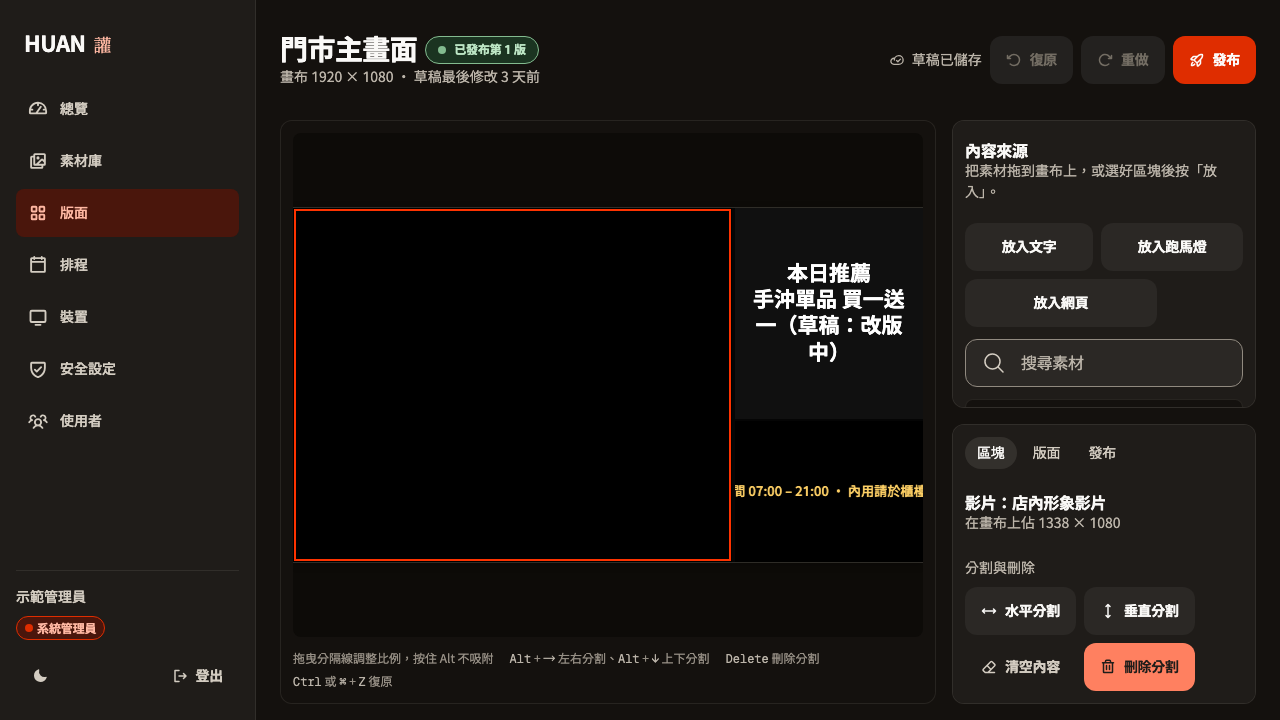
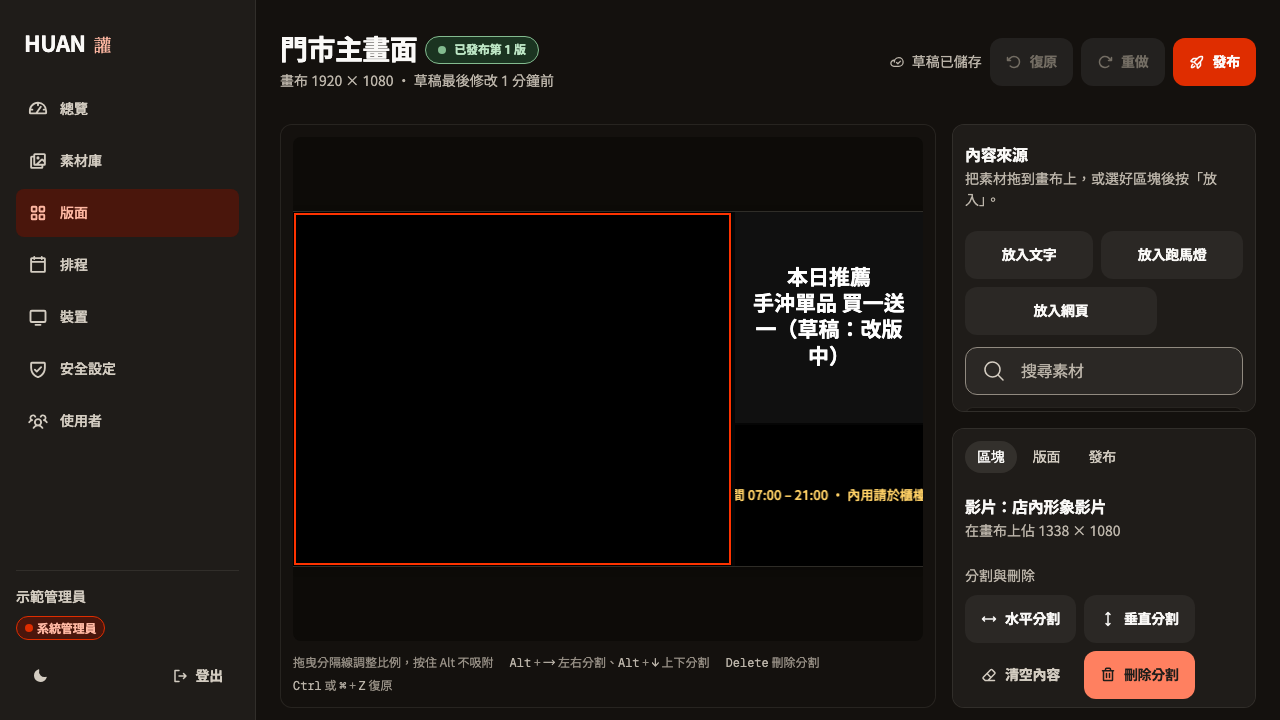
admin: 升到 @linyao.tw/ui 1.5.0
修的是兩個一直看得到的版面問題：

Dialog 原本是整個彈窗在捲動。排程表單在 720px 高的視窗上，「取消／儲存」落在
畫面下方 900px 處，捲下去按的同時標題和關閉鈕會離開畫面上緣。現在 header 與
footer 固定，只有內容區捲動——量過 30 次 Tab 加滾輪，彈窗本身不再位移。

沒有標題的卡片上下內距不對稱，上面比下面多 20px。總覽與安全設定的卡片現在是
16/16 與 24/24。

順手移除 .huan-shell__content--wide：沒有任何地方引用它。編輯器要用滿主欄是靠
layouts.css 的 :has(> .huan-editor)，那條規則跟著路由一起載入，比多一個要由
版面元件記得掛上的類別可靠。

截圖因為卡片間距改變而重拍。

Claude-Session: https://claude.ai/code/session_014Dgy1yiSzcn9RUbk3aGzy3

diff --git a/apps/admin/src/styles/app.css b/apps/admin/src/styles/app.css
@@ -276,10 +276,6 @@ body {
 	gap: var(--space-6);
 }
 
-.huan-shell__content--wide {
-	max-width: none;
-}
-
 /*
  * 1024 的側欄要瘦一點。
  *

diff --git a/AGENTS.md b/AGENTS.md
@@ -9,7 +9,7 @@ HUAN 讙是跨平台的雲端媒體播放與數位看板系統。使用者在 We
 - 產品語言：繁體中文（zh-TW）。所有 UI 文案、文件、commit 訊息說明與註解都使用繁體中文。
 - 程式碼識別字、型別名稱、函式名稱一律使用英文。
 - 套件管理器：**pnpm**。不要使用 npm 或 yarn；root 的 `preinstall` 會擋下來。
-- 設計系統：**`@linyao.tw/ui@1.3.0`**。不得引入第二套元件庫。
+- 設計系統：**`@linyao.tw/ui@1.5.0`**。不得引入第二套元件庫。
 
 ## 架構
 
